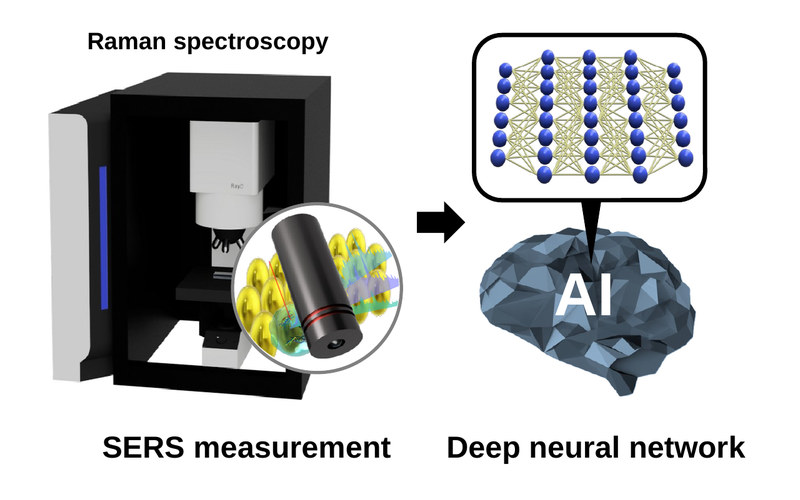
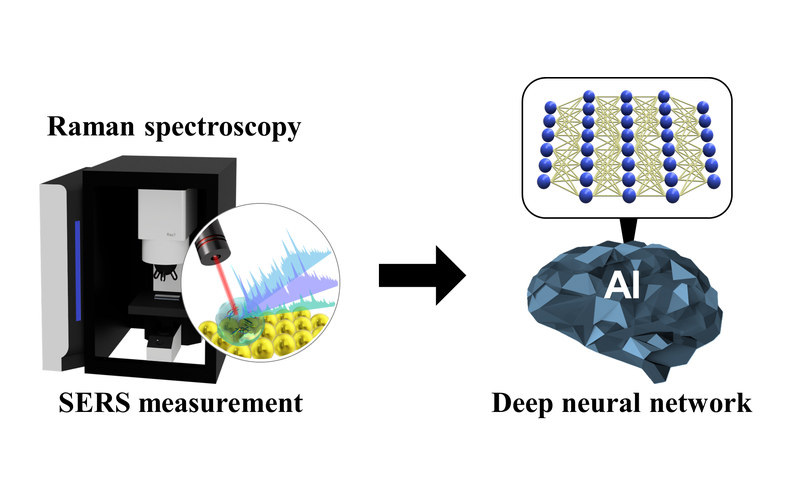
content: PI awards; sharper AI clinical analysis figure and Home card
- Awards: KSBB Young Investigator (2025), KSIEC Miwon young scientist
  (2023), Korean BioChip Society excellent paper (2020, 2019)
- AI Clinical Analysis: replace pipeline figure (laser was blurred);
  Home AI card cropped from the new figure

diff --git a/awards.html b/awards.html
@@ -15,6 +15,10 @@
       <h1 class="page-title reveal">Awards</h1>
       <ul class="list reveal">
         <li><span class="year">2026</span> <span class="lang-ko">김동균, 우수포스터 발표상, 한국엑소좀학회(KSEV 2026).</span><span class="lang-en">Dong Gyun Kim, Best Poster Presentation Award, KSEV 2026.</span></li>
+        <li><span class="year">2025</span> <span class="lang-ko">이종욱, 신인학술상, 한국생물공학회.</span><span class="lang-en">Jong Uk Lee, Young Investigator Award, The Korean Society for Biotechnology and Bioengineering (KSBB).</span></li>
+        <li><span class="year">2023</span> <span class="lang-ko">이종욱, 미원상사 신진과학자상, 한국공업화학회.</span><span class="lang-en">Jong Uk Lee, Miwon Commercial Young Scientist Award, The Korean Society of Industrial and Engineering Chemistry (KSIEC).</span></li>
+        <li><span class="year">2020</span> <span class="lang-ko">이종욱, 우수논문상, 한국바이오칩학회.</span><span class="lang-en">Jong Uk Lee, Excellent Paper Award, The Korean BioChip Society.</span></li>
+        <li><span class="year">2019</span> <span class="lang-ko">이종욱, 우수논문상, 한국바이오칩학회.</span><span class="lang-en">Jong Uk Lee, Excellent Paper Award, The Korean BioChip Society.</span></li>
       </ul>
     </div></section>
   </main>

diff --git a/research.html b/research.html
@@ -65,7 +65,7 @@
           <h3>AI Clinical Analysis</h3>
           <p class="desc"><span class="lang-ko">분자 데이터와 임상 데이터의 전처리 및 머신러닝·딥러닝 모델 개발<br>- 질병 진단과 진행 예측, 판단 근거가 되는 특징 해석 가능</span><span class="lang-en">Preprocessing of molecular and clinical data and development of machine learning and deep learning models<br>- Disease diagnosis, progression prediction and interpretation of the features behind each prediction</span></p>
           <div class="thumbs">
-            <img src="assets/img/research/ai-oa-sers-dnn.jpg" alt="Exosome collection, SERS measurement, deep neural network and osteoarthritis grade classification" width="1600" height="556" style="--ar:2.88" loading="lazy">
+            <img src="assets/img/research/ai-oa-sers-dnn.jpg" alt="Exosome collection, SERS measurement, deep neural network and osteoarthritis grade classification" width="1600" height="308" style="--ar:5.19" loading="lazy">
             <img src="assets/img/research/ai-sers-ml-steps.jpg" alt="Machine learning workflow for SERS data: preprocessing, data separation and model training" width="1600" height="442" style="--ar:3.62" loading="lazy">
           </div>
         </div>
